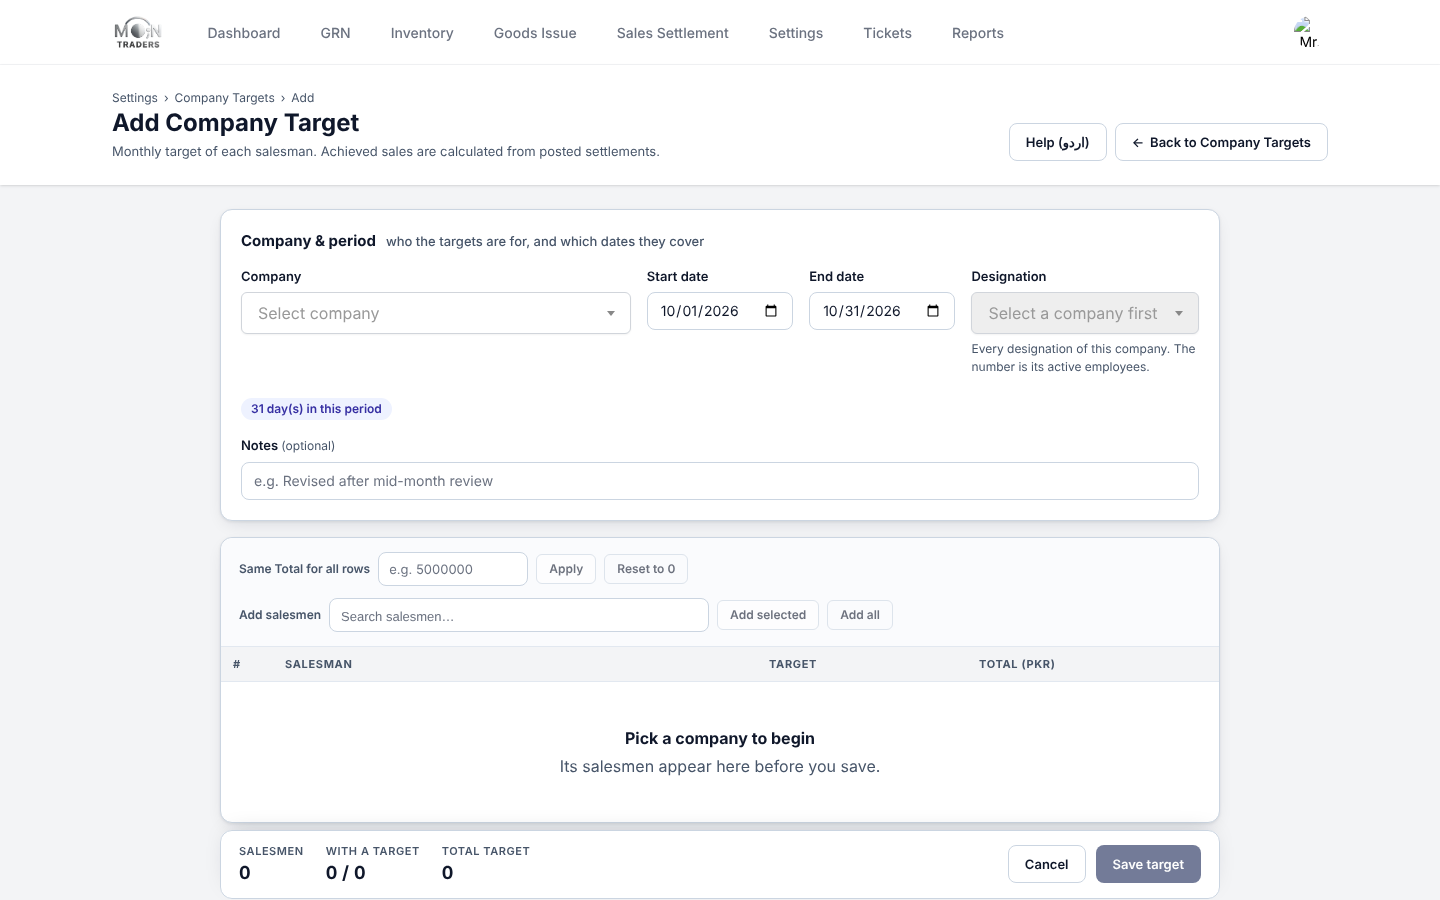
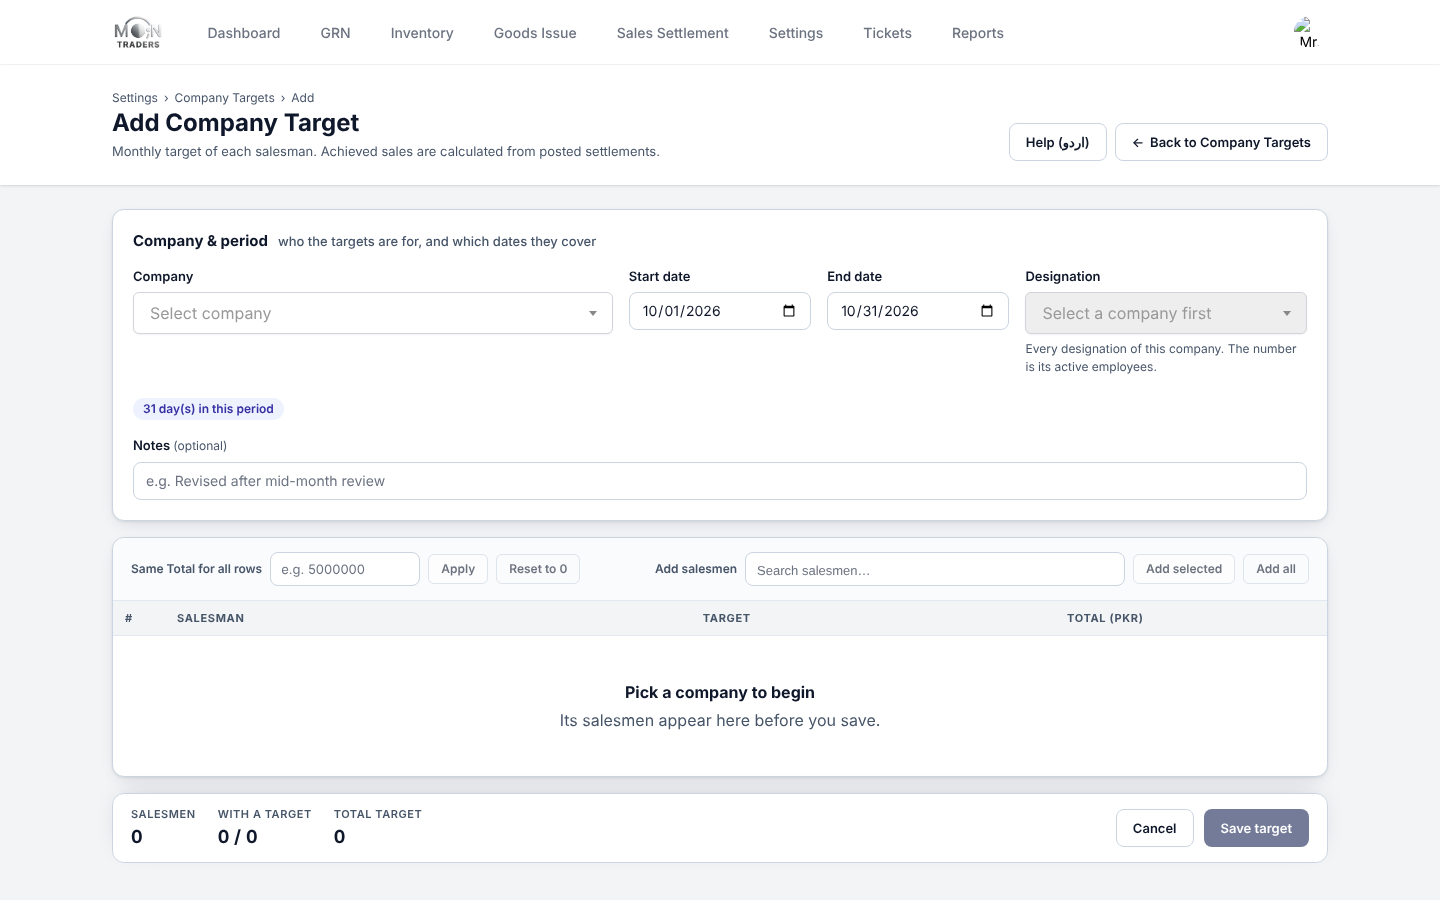
Company Targets form: use the standard 7xl page width
Claude-Session: https://claude.ai/code/session_01MDwDNp7qRUaKGFX7KQuxFy

diff --git a/resources/views/settings/company-targets/form.blade.php b/resources/views/settings/company-targets/form.blade.php
@@ -47,7 +47,6 @@
         .ct-tools input { height: 34px; padding: 0 10px; border: 1px solid var(--ak-border); border-radius: 8px; font-size: 13px; background: #fff; }
         .ct-tools input[type=number] { width: 150px; }
         .ct-tools .select2-container { min-width: 260px; }
-        .ct-wrap { max-width: 1000px; margin-inline: auto; }
         .ct-table { width: 100%; border-collapse: collapse; font-size: 14px; table-layout: fixed; }
         .ct-table th { position: sticky; top: 0; z-index: 1; padding: 9px 12px; text-align: left; font-size: 11px; font-weight: 700; letter-spacing: .06em; text-transform: uppercase; color: var(--ak-muted); background: #f3f4f6; border-bottom: 1px solid var(--ak-line); }
         .ct-table td { padding: 6px 12px; border-bottom: 1px solid #eef0f3; vertical-align: middle; }
@@ -91,7 +90,7 @@
             </div>
         @endif
 
-        <form class="ct-wrap" method="POST" action="{{ $isCreate ? route('company-targets.store') : route('company-targets.update', $target) }}">
+        <form method="POST" action="{{ $isCreate ? route('company-targets.store') : route('company-targets.update', $target) }}">
             @csrf
             @unless ($isCreate) @method('PUT') @endunless
 
@@ -158,7 +157,7 @@
                 <div class="ct-loading" x-show="loading" x-cloak role="status">Loading this company's salesmen…</div>
                 <div style="overflow-x:auto;">
                     <table class="ct-table" style="min-width:640px;">
-                        <colgroup><col style="width:52px;"><col><col style="width:210px;"><col style="width:200px;"><col style="width:52px;"></colgroup>
+                        <colgroup><col style="width:52px;"><col><col style="width:30%;"><col style="width:220px;"><col style="width:52px;"></colgroup>
                         <thead>
                             <tr><th>#</th><th>Salesman</th><th>Target</th><th class="ct-num">Total (PKR)</th><th><span class="sr-only">Remove</span></th></tr>
                         </thead>
